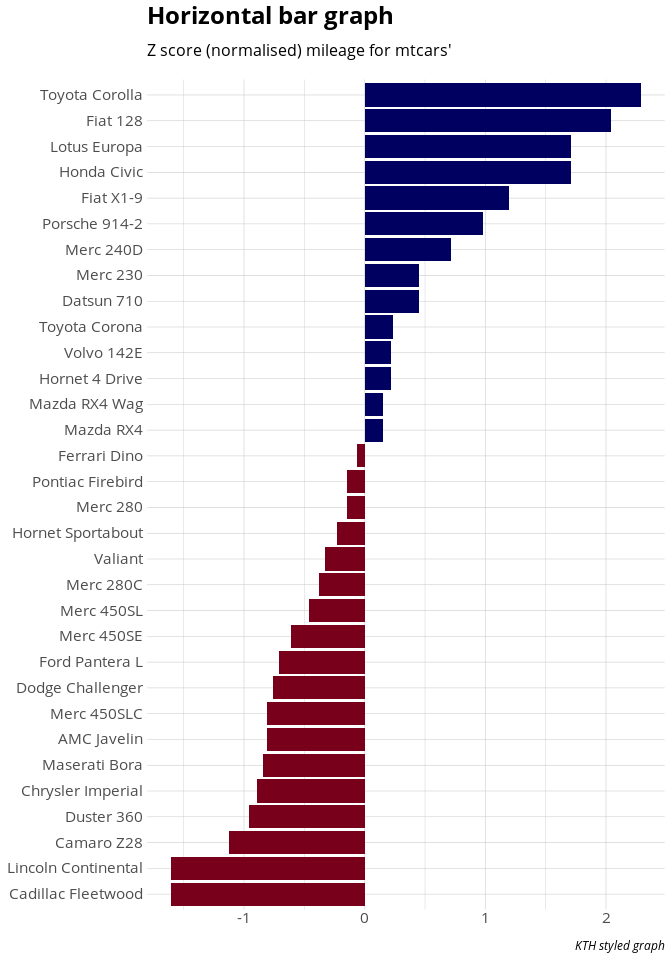
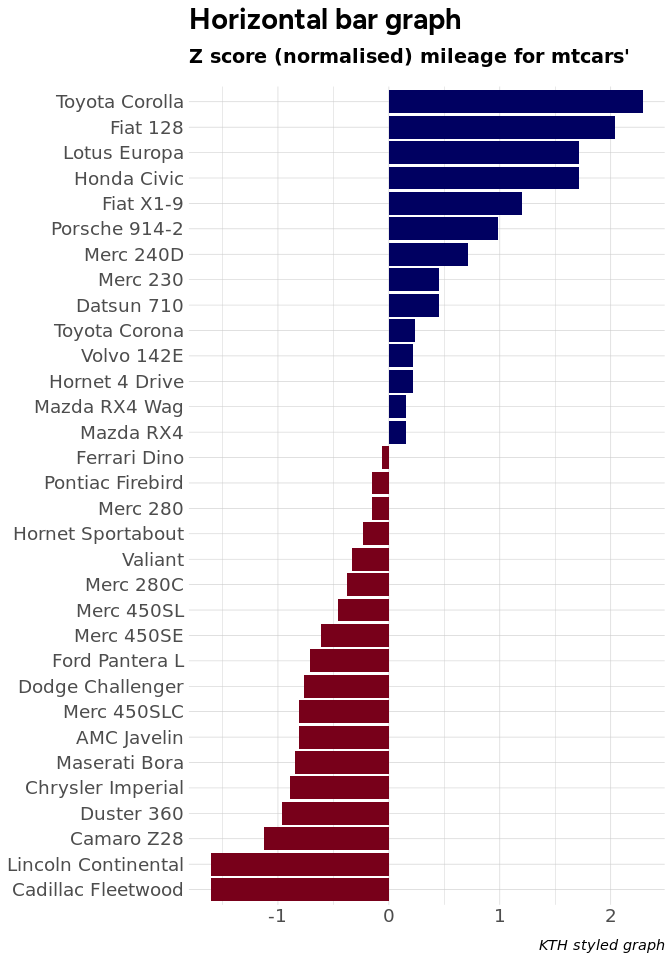
minor tweaks

diff --git a/README.md b/README.md
@@ -221,7 +221,7 @@ Using the KTH palette, qualitative coloring:
 ggplot(iris, aes(Species, Sepal.Length)) + 
   geom_boxplot(aes(fill = Species)) +
   scale_fill_kth() +
-  theme_kth() +
+  theme_kth_figtree() +
   theme(legend.position = "top")
 ```
 
@@ -253,8 +253,13 @@ ggplot(mpg, aes(displ, hwy)) +
     subtitle="These plots show some example data",
     caption="Source: ktheme R package"
   ) +
-  theme_kth_figtree(grid="XY", axis="xy") +
-  theme(legend.position="none") -> gg
+  theme_kth_figtree() +
+  theme(legend.position="none")
+```
+
+![](man/figures/README-unnamed-chunk-7-1.png)<!-- -->
+
+``` r
 
 #flush_ticks(gg)
 ```
@@ -279,7 +284,7 @@ ggplot(cars, aes(x=reorder(brand, mpg_z_score), y=mpg_z_score, label=mpg_z_score
     values = c("above" = pdiv[1], "below" = pdiv[2])) +
   labs(subtitle="Z score (normalised) mileage for mtcars'",
     title= "Horizontal bar graph", caption="KTH styled graph") +
-  theme_kth() +
+  theme_kth_figtree() +
   theme(
     axis.title.y=element_blank(),
     axis.title.x=element_blank(),
@@ -294,16 +299,16 @@ discrete colors versus qualitative discrete colors:
 ``` r
 library(patchwork)
 
-pdiv <- rev(tolower(palette_kth(n = 5, type = "seq") %>% setNames(NULL)))
+pdiv <- rev(tolower(palette_kth_neo(n = 5, type = "seq") %>% setNames(NULL)))
 dsamp <- diamonds[1 + 1:1000 * 50, ]
 
 gg <- ggplot(dsamp, aes(carat, price, color = cut)) + geom_point()
 
-gg1 <- gg + scale_color_manual(values = pdiv) + theme_kth() + scale_y_comma()
+gg1 <- gg + scale_color_manual(values = pdiv) + theme_kth_figtree() + scale_y_comma()
 
 gg2 <- gg + scale_color_kth() + theme_kth_figtree() + scale_y_comma()
 
-gg3 <- gg + facet_wrap(~cut, ncol = 5) + scale_color_manual(values = pdiv) + theme_kth() + scale_y_comma() + theme(legend.position="bottom")
+gg3 <- gg + facet_wrap(~cut, ncol = 5) + scale_color_manual(values = pdiv) + theme_kth_figtree() + scale_y_comma() + theme(legend.position="bottom")
 
 gg1 + gg2
 ```
@@ -319,7 +324,7 @@ gg3
 
 ![](man/figures/README-unnamed-chunk-10-1.png)<!-- -->
 
-A narrow or condensed variant of Open Sans is available.
+Another example with a simple bar plot:
 
 ``` r
 #update_geom_font_defaults(family=font_osc)
@@ -344,8 +349,8 @@ geom_text(aes(label=paste0("n=", n)), nudge_y=3) +
 labs(x="Vehicle category", y="Observations (n)",
      title="Seminal ggplot2 bar chart example",
      subtitle="A plot that is only useful for demonstration purposes",
-     caption="A demo of theme_kth_osc") +
-theme_kth_osc() +
+     caption="A demo of theme_kth_figtree") +
+theme_kth_figtree() +
 scale_fill_kth() +
 theme(axis.text.y=element_blank())
 ```
